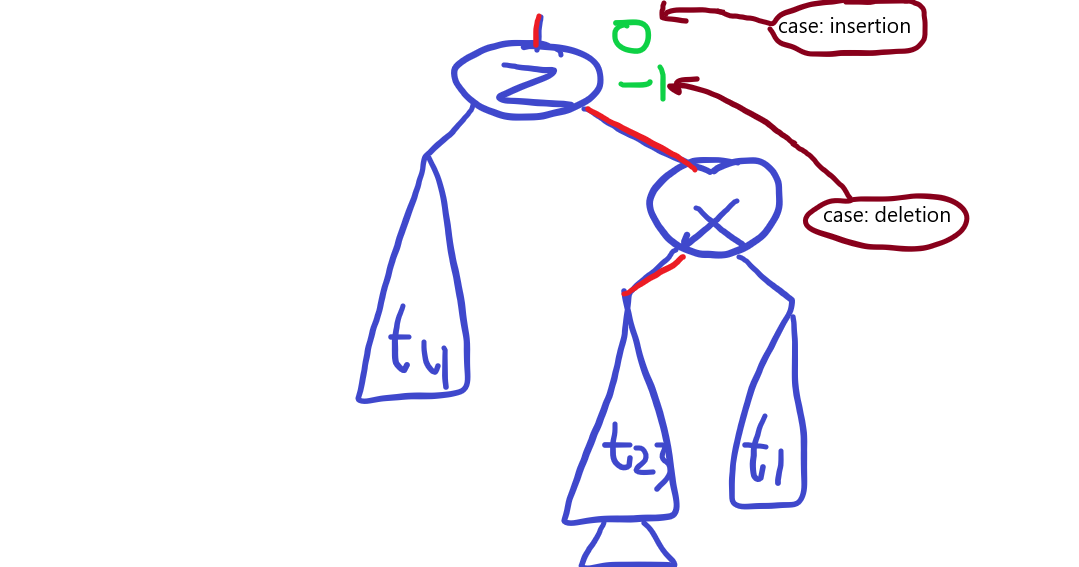
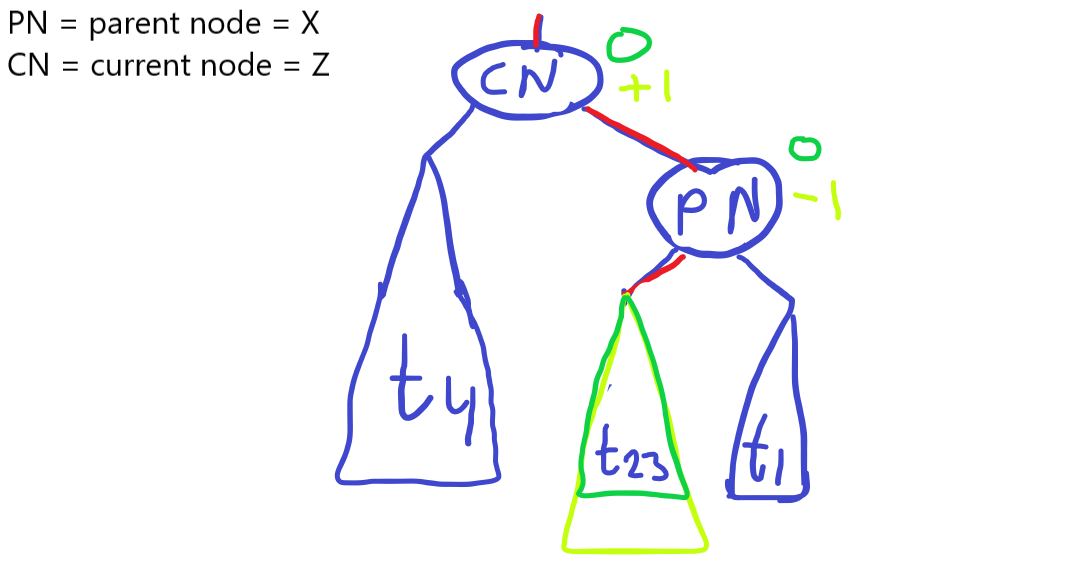
fixed bugs in simple rotations. implemented both double rotations. added some more images. TODO: fix insertNode to modify the BF value correctly at correct nodes. TODO: after insertNode, implement rebalanceTree function where all the rotation methods are called where approperiate.

diff --git a/CDataStructure++/AVLTree/AVLTree.h b/CDataStructure++/AVLTree/AVLTree.h
@@ -63,13 +63,13 @@ public:
 	}
 
 	/*
-	* ROTATE LEFT CASE:
-	*	<currNode> is a left child of its parent <parentNode> and BF(<currNode>) <= 0
+	* SIMPLE ROTATION - LEFT CASE:
+	*	Z (currNode) is a left child of its parent X (parentNode) and BF(Z) <= 0
 	*/
 	AVLNode<T>* rotateLeft(AVLNode<T>* parentNode, AVLNode<T>* currNode)
 	{
 		// currNode is by 2 higher than its sibling
-		AVLNode<T>* innerChild = currNode->getLeft(); // Inner child of currNode
+		AVLNode<T>* innerChild = currNode->getLeft(); // Left child of currNode
 		parentNode->setRight(innerChild);
 
 		if (innerChild != nullptr)
@@ -78,6 +78,7 @@ public:
 		}
 
 		currNode->setLeft(parentNode);
+		currNode->setParent(parentNode->getParent());
 		parentNode->setParent(currNode);
 
 		// 1st case, BF(current node) == 0,
@@ -98,13 +99,13 @@ public:
 	}
 
 	/*
-	* ROTATE RIGHT CASE: 
-	*	<currNode> is a right child of its parent <parentNode> and BF(<currNode>) >= 0
+	* SIMPLE ROTATION - RIGHT CASE: 
+	*	Z (currNode) is a right child of its parent X (parentNode) and BF(Z) >= 0
 	*/
 	AVLNode<T>* rotateRight(AVLNode<T>* parentNode, AVLNode<T>* currNode)
 	{
 		// currNode is by 2 higher than its sibling
-		AVLNode<T>* innerChild = currNode->getRight(); // Inner child of currNode
+		AVLNode<T>* innerChild = currNode->getRight(); // Right child of currNode
 		parentNode->setLeft(innerChild);
 
 		if (innerChild != nullptr)
@@ -113,15 +114,16 @@ public:
 		}
 
 		currNode->setRight(parentNode);
+		currNode->setParent(parentNode->getParent());
 		parentNode->setParent(currNode);
 
 		// 1st case, BF(current node) == 0,
 		//   only happens with deletion, not insertion:
 		if (currNode->getBf() == 0)
 		{
-			// t23 has been of same height as t4
-			parentNode->setBf(1);   // t23 now higher
-			currNode->setBf(-1);   // t4 now lower than parent node
+			// t23 has been of same height as t1
+			parentNode->setBf(-1);   // t23 now higher
+			currNode->setBf(1);   // t1 now lower than parent node
 		}
 		else
 		{ // 2nd case happens with insertion or deletion:
@@ -132,9 +134,131 @@ public:
 		return currNode; // return new root of rotated subtree
 	}
 
-	AVLNode<T>* rotateLeftLeft()
+	/*
+	* DOUBLE ROTATION - RIGHT_LEFT ROTATION:
+	*	Z (currNode) is a right child of its parent X (parentNode) and BF(Z) < 0
+	*/
+	AVLNode<T>* rotateRightLeft(AVLNode<T>* parentNode, AVLNode<T>* currNode)
 	{
-		// TODO: rotate left twice
+		AVLNode<T>* innerChild = currNode->getLeft(); // Y
+		AVLNode<T>* leftOfInnerChild = innerChild->getLeft(); // t2
+		AVLNode<T>* rightOfInnerChild = innerChild->getRight(); // t3
+		const auto innerChildBF = innerChild->getBf();
+
+		if (innerChild != nullptr) // TODO: remove this if statement as it is assumed/expected that this node exists
+		{
+			// rotate right around currNode and then left around parentNode
+			currNode->setLeft(rightOfInnerChild);
+			if (rightOfInnerChild != nullptr)
+			{
+				rightOfInnerChild->setParent(currNode);
+			}
+			parentNode->setRight(leftOfInnerChild);
+			if (leftOfInnerChild != nullptr)
+			{
+				leftOfInnerChild->setParent(parentNode);
+			}
+			innerChild->setLeft(parentNode);
+			innerChild->setRight(currNode);
+
+			innerChild->setParent(parentNode->getParent());
+			parentNode->setParent(innerChild);
+			currNode->setParent(innerChild);
+
+			// 1st case, BF(Y) == 0,
+			//   only happens with deletion, not insertion:
+			if (innerChildBF == 0)
+			{
+				parentNode->setBf(0);
+				currNode->setBf(0);
+			}
+			else
+			{
+				// other cases happen with insertion or deletion:
+				if (innerChildBF > 0)
+				{
+					// t3 was higher
+					parentNode->setBf(-1); // t1 now higher
+					currNode->setBf(0);
+				}
+				else
+				{
+					// t2 was higher
+					parentNode->setBf(0);
+					currNode->setBf(1); // t4 now higher
+				}
+			}
+
+			innerChild->setBf(0);
+
+			return innerChild;
+		}
+
+		std::cout << "[rotateRightLeft] innerChild is not valid (nullptr): " << innerChild << "\n";
+		return nullptr;
+	}
+
+	/*
+	* DOUBLE ROTATION - LEFT_RIGHT ROTATION:
+	*	Z (currNode) is a left child of its parent X (parentNode) and BF(Z) > 0
+	*/
+	AVLNode<T>* rotateLeftRight(AVLNode<T>* parentNode, AVLNode<T>* currNode)
+	{
+		AVLNode<T>* innerChild = currNode->getRight(); // Y
+		AVLNode<T>* leftOfInnerChild = innerChild->getLeft(); // t3
+		AVLNode<T>* rightOfInnerChild = innerChild->getRight(); // t2
+		const auto innerChildBF = innerChild->getBf();
+
+		if (innerChild != nullptr) // TODO: remove this if statement as it is assumed/expected that this node exists
+		{
+			// rotate right around currNode and then left around parentNode
+			currNode->setRight(leftOfInnerChild);
+			if (leftOfInnerChild != nullptr)
+			{
+				leftOfInnerChild->setParent(currNode);
+			}
+			parentNode->setLeft(rightOfInnerChild);
+			if (rightOfInnerChild != nullptr)
+			{
+				rightOfInnerChild->setParent(parentNode);
+			}
+			innerChild->setRight(parentNode);
+			innerChild->setLeft(currNode);
+
+			innerChild->setParent(parentNode->getParent());
+			parentNode->setParent(innerChild);
+			currNode->setParent(innerChild);
+
+			// 1st case, BF(Y) == 0,
+			//   only happens with deletion, not insertion:
+			if (innerChildBF == 0)
+			{
+				parentNode->setBf(0);
+				currNode->setBf(0);
+			}
+			else
+			{
+				// other cases happen with insertion or deletion:
+				if (innerChildBF > 0)
+				{
+					// t2 was higher
+					parentNode->setBf(0); 
+					currNode->setBf(-1); // t4 now higher
+				}
+				else
+				{
+					// t3 was higher
+					parentNode->setBf(1); // t1 now higher
+					currNode->setBf(0); 
+				}
+			}
+
+			innerChild->setBf(0);
+
+			return innerChild;
+		}
+
+		std::cout << "[rotateLeftRight] innerChild is not valid (nullptr): " << innerChild << "\n";
 		return nullptr;
 	}
 
